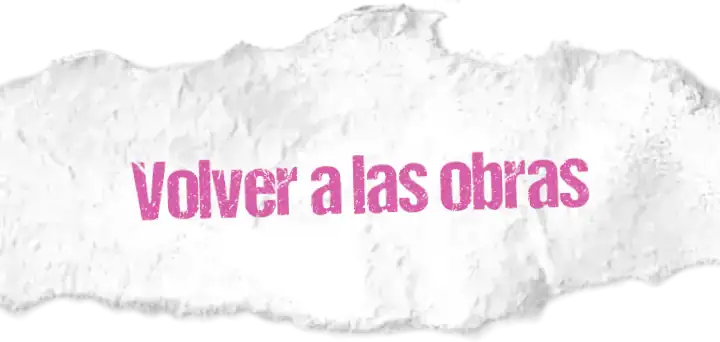
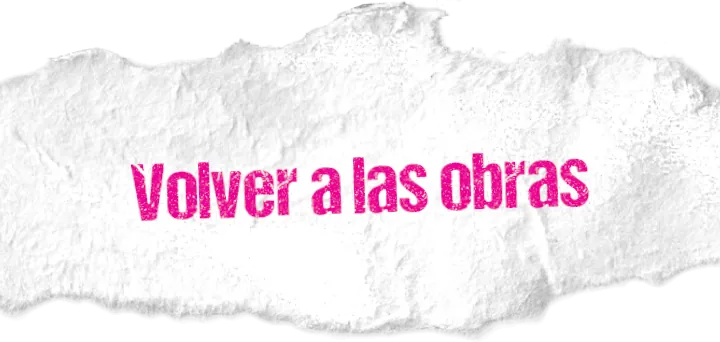
Reemplazar/especificar colores acento a un fucsia

diff --git a/assets/home.css b/assets/home.css
@@ -54,7 +54,7 @@ $móvil: 720px;
   padding-top: 20px;
 
   h2 {
-    color: #EB0292;
+    color: var(--color-acento);
     margin-bottom: -20px;
     text-align: center;
     text-transform: uppercase;
@@ -74,7 +74,7 @@ $móvil: 720px;
     cursor: pointer;
 
     &.obra-filtro-activo {
-      color: #EB0292;
+      color: var(--color-acento);
     }
   }
 }

diff --git a/assets/main.css b/assets/main.css
@@ -6,6 +6,7 @@
   --obra-gap: 30px;
   --obra-bloque-gap: 16px;
   --min-padding: 10px;
+  --color-acento: #EB0292;
 }
 
 ::-webkit-scrollbar {
